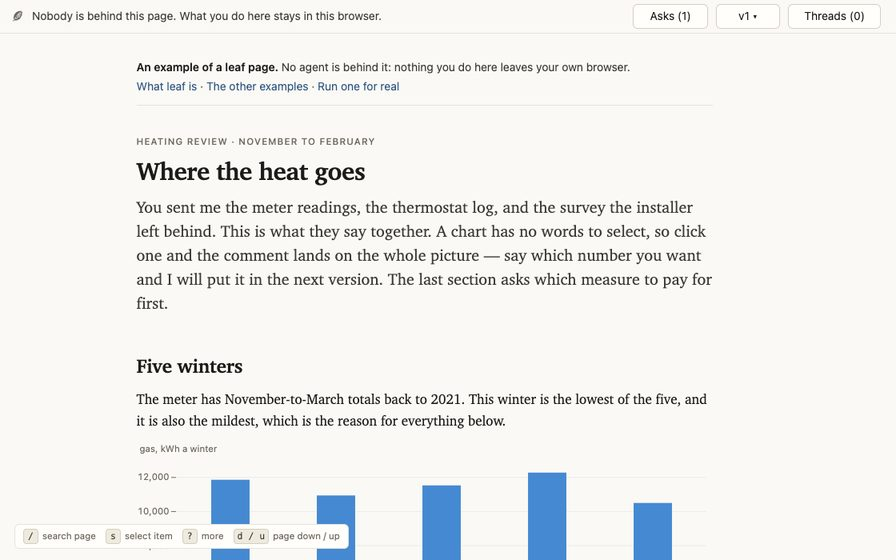
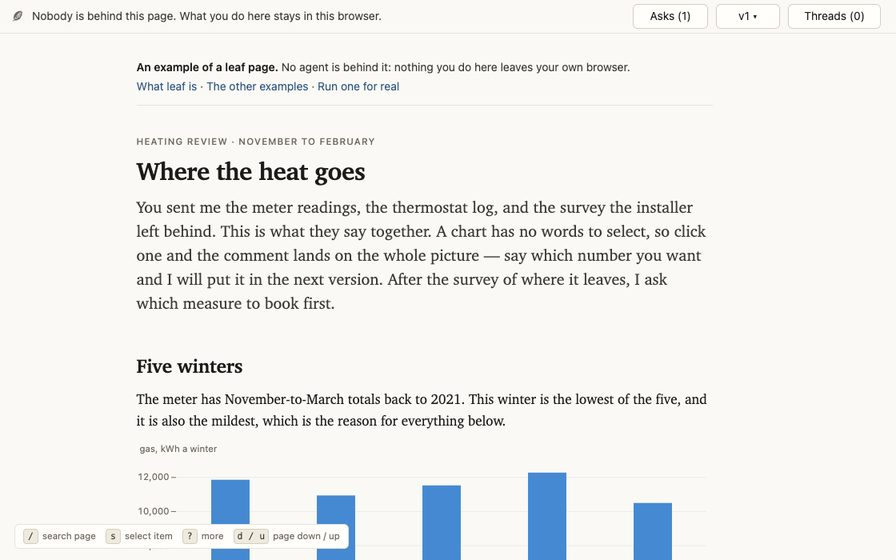
Interleave Leaf asks with the explanation they turn on (#202)
The skill said a decision has a control beside its evidence, and the
decisions reference opened by making the ask self-contained. Nothing
placed the ask relative to the explanation, so an author could finish
each section and stack its asks at the foot, after the collapsed
evidence. The guidance now says an ask sits where the reader has just
read what it turns on, with the page going on after it, and that only an
ask turning on the whole page comes last.

The heat-loss example was the one shipped page in the old shape (five
chart sections, then its single ask); its ask now follows the survey of
losses it turns on, and the corpus is regenerated. A second commit
aligns the `lf-tabs` registry description with the tabs rule
page-authoring.md adopted on 31 Aug, which it still contradicted, and a
third carries into both, and into the revisions reference that owns it,
the clause `version check` enforces: a passage whose id anchors an open
thread or holds a standing decision moves into the collapsed details
with its id. That commit also regenerates the gallery stills (heat-loss
showed the replaced lede; release-notes predated the last asset change)
and updates two nightly tests that still named pr-walkthrough by its old
title.

<details>
<summary>Old vs new wording on three synthetic subjects, two runs
each</summary>

Each arm's guidance was pasted into one prompt with the subject; every
run completed without error.

| Subject | Old wording | New wording |
|---|---|---|
[…]

Changed region(s): [[0.4375, 0.4857, 0.8125, 0.5161], [0.1562, 0.5161, 0.375, 0.5768]]

diff --git a/examples/corpus.html b/examples/corpus.html
@@ -228,8 +228,8 @@ catalog.</p>
         You sent me the meter readings, the thermostat log, and the survey the installer
         left behind. This is what they say together. A chart has no words to select, so
         click one and the comment lands on the whole picture — say which number you want
-        and I will put it in the next version. The last section asks which measure to
-        pay for first.
+        and I will put it in the next version. After the survey of where it leaves, I
+        ask which measure to book first.
       </p>
 
       <section id="heat-years-section">
@@ -316,39 +316,6 @@ chimney with no cap, 120
         </lf-chart>
       </section>
 
-      <section id="heat-weather">
-        <h2>Against the weather</h2>
-        <p id="heat-weather-note">
-          Every week sits at its own average outside temperature, so a colder winter
-          cannot be mistaken for a leakier house. The two runs are the same house six
-          weeks apart: the second sits about
-          <lf-num
-            id="heat-weather-gap"
-            source="heat-weather-gap"
-            at="2026-02-01T12:00:00Z"
-            via="uv run analyse-heat --weather-normalise"
-            >40 kWh a week</lf-num
-          >
-          below the first at the same temperature, which is the draught-proofing showing
-          up.
-        </p>
-        <lf-chart id="heat-response" kind="dots" y="gas, kWh a week">
-          <pre>
-outside average, before, after
-2.1, 604,
-3.0, 588,
-3.4, 561,
-4.2, 538,
-5.0, 512,
-6.1, 470,
-2.6, , 542
-3.8, , 498
-5.2, , 470
-6.4, , 449
-</pre>
-        </lf-chart>
-      </section>
-
       <lf-decision id="heat-first-decision">
         <h2>Which measure should be booked first?</h2>
         <p id="heat-first-note">
@@ -387,6 +354,39 @@ outside average, before, after
           </lf-option>
         </lf-options>
       </lf-decision>
+
+      <section id="heat-weather">
+        <h2>Against the weather</h2>
+        <p id="heat-weather-note">
+          Every week sits at its own average outside temperature, so a colder winter
+          cannot be mistaken for a leakier house. The two runs are the same house six
+          weeks apart: the second sits about
+          <lf-num
+            id="heat-weather-gap"
+            source="heat-weather-gap"
+            at="2026-02-01T12:00:00Z"
+            via="uv run analyse-heat --weather-normalise"
+            >40 kWh a week</lf-num
+          >
+          below the first at the same temperature, which is the draught-proofing showing
+          up.
+        </p>
+        <lf-chart id="heat-response" kind="dots" y="gas, kWh a week">
+          <pre>
+outside average, before, after
+2.1, 604,
+3.0, 588,
+3.4, 561,
+4.2, 538,
+5.0, 512,
+6.1, 470,
+2.6, , 542
+3.8, , 498
+5.2, , 470
+6.4, , 449
+</pre>
+        </lf-chart>
+      </section>
 </lf-tab>
 
 <lf-tab id="corpus-live-progress" label="Live">

diff --git a/examples/heat-loss.html b/examples/heat-loss.html
@@ -22,8 +22,8 @@
         You sent me the meter readings, the thermostat log, and the survey the installer
         left behind. This is what they say together. A chart has no words to select, so
         click one and the comment lands on the whole picture — say which number you want
-        and I will put it in the next version. The last section asks which measure to
-        pay for first.
+        and I will put it in the next version. After the survey of where it leaves, I
+        ask which measure to book first.
       </p>
 
       <section id="heat-years-section">
@@ -110,39 +110,6 @@ chimney with no cap, 120
         </lf-chart>
       </section>
 
-      <section id="heat-weather">
-        <h2>Against the weather</h2>
-        <p id="heat-weather-note">
-          Every week sits at its own average outside temperature, so a colder winter
-          cannot be mistaken for a leakier house. The two runs are the same house six
-          weeks apart: the second sits about
-          <lf-num
-            id="heat-weather-gap"
-            source="heat-weather-gap"
-            at="2026-02-01T12:00:00Z"
-            via="uv run analyse-heat --weather-normalise"
-            >40 kWh a week</lf-num
-          >
-          below the first at the same temperature, which is the draught-proofing showing
-          up.
-        </p>
-        <lf-chart id="heat-response" kind="dots" y="gas, kWh a week">
-          <pre>
-outside average, before, after
-2.1, 604,
-3.0, 588,
-3.4, 561,
-4.2, 538,
-5.0, 512,
-6.1, 470,
-2.6, , 542
-3.8, , 498
-5.2, , 470
-6.4, , 449
-</pre>
-        </lf-chart>
-      </section>
-
       <lf-decision id="heat-first-decision">
         <h2>Which measure should be booked first?</h2>
         <p id="heat-first-note">
@@ -181,6 +148,39 @@ outside average, before, after
           </lf-option>
         </lf-options>
       </lf-decision>
+
+      <section id="heat-weather">
+        <h2>Against the weather</h2>
+        <p id="heat-weather-note">
+          Every week sits at its own average outside temperature, so a colder winter
+          cannot be mistaken for a leakier house. The two runs are the same house six
+          weeks apart: the second sits about
+          <lf-num
+            id="heat-weather-gap"
+            source="heat-weather-gap"
+            at="2026-02-01T12:00:00Z"
+            via="uv run analyse-heat --weather-normalise"
+            >40 kWh a week</lf-num
+          >
+          below the first at the same temperature, which is the draught-proofing showing
+          up.
+        </p>
+        <lf-chart id="heat-response" kind="dots" y="gas, kWh a week">
+          <pre>
+outside average, before, after
+2.1, 604,
+3.0, 588,
+3.4, 561,
+4.2, 538,
+5.0, 512,
+6.1, 470,
+2.6, , 542
+3.8, , 498
+5.2, , 470
+6.4, , 449
+</pre>
+        </lf-chart>
+      </section>
     </main>
   </body>
 </html>

diff --git a/tests/test_render_export.py b/tests/test_render_export.py
@@ -146,7 +146,9 @@ def test_the_example_preview_command_exports_a_file_that_opens_on_its_own(
     errors = watched(page)
     page.on("requestfailed", lambda request: errors.append(f"unfetched {request.url}"))
     page.goto(out.as_uri(), wait_until="load")
-    expect(page.get_by_role("heading", name="Per-token rate limits")).to_be_visible()
+    expect(
+        page.get_by_role("heading", name="Unified diff in the switch picker")
+    ).to_be_visible()
     assert page.locator("script").count() == 0
     assert page.locator('link[rel="stylesheet"]').count() == 0
     assert page.locator("style").count() > 0

diff --git a/tests/test_site.py b/tests/test_site.py
@@ -283,7 +283,7 @@ def test_an_example_paints_while_every_stage_of_site_startup_is_held(
     try:
         with page.expect_request("**/leaf.js"):
             page.goto(example_url(hosted, "pr-walkthrough"), wait_until="commit")
-        expect(page.locator("h1")).to_have_text("Per-token rate limits")
+        expect(page.locator("h1")).to_have_text("Unified diff in the switch picker")
         expect(page.locator("h1")).to_be_visible()
 
         assert boot, "the positive control did not hold the site boot module"

diff --git a/skills/leaf/references/authoring-decisions.md b/skills/leaf/references/authoring-decisions.md
@@ -5,12 +5,18 @@ registry entries for the exact widget contracts.
 
 ## Asks and sign-off
 
-Make the ask self-contained: put each alternative's title, case, and
-decision-relevant evidence or preview inside the option itself. Use a short
-option that points elsewhere only to select among sections or work items that
-already exist independently of the decision; do not create separate sections
-to hold an ask's alternatives. Allow multiple picks only when several options
-may stand.
+Put each ask where the reader has just read what it turns on, and let the page
+go on explaining after it. That point is the paragraph, list item, table, or
+chart that makes the question answerable. An ask about one item of a list
+follows that item, and an ask that turns on a claim follows the claim rather
+than the backing collapsed under it. Only an ask that turns on the whole page
+comes last.
+
+Each option carries its own title, case, and decision-relevant evidence or
+preview. Use a short option that points elsewhere only to select among sections
+or work items that already exist independently of the decision; do not create
+separate sections to hold an ask's alternatives. Allow multiple picks only when
+several options may stand.
 
 On the page the group's last cell is an option the reader writes, saying
 `Another option`, so author the alternatives you actually mean and no catch-all

diff --git a/skills/leaf/references/authoring-revisions.md b/skills/leaf/references/authoring-revisions.md
@@ -50,9 +50,10 @@ Each active revision presents what is live now. Remove a concluded run or
 superseded section instead of adding the next one beside it. Keep older material
 only when the current work still needs its context; move only the needed
 passages to a `Past work` section at the foot, inside a collapsed `<details>`
-whose summary names what it contains. Preserve the ids and words of passages
-that survive. Mark a concluded `lf-options` group `settled` when it retires
-inside a section that remains live.
+whose summary names what it contains. A passage whose id anchors an open thread
+or holds a standing decision survives with its id and words whatever else goes;
+`version check` refuses a version that drops one. Mark a concluded `lf-options`
+group `settled` when it retires inside a section that remains live.
 
 Relocation is not revision: moving unchanged content needs neither a suggestion
 nor `restated`. Keep a decision live while it is being applied, and settle it

diff --git a/skills/leaf/SKILL.md b/skills/leaf/SKILL.md
@@ -93,8 +93,9 @@ guidance <page>` lists the available audiences, and `leaf page guidance <page>
 <audience>` prints one guide. Read the assigned audience before acting in that
 role. List the page's audiences and read `author` guidance when it is available.
 
-Every decision has a control beside its evidence. A page that needs approval declares
-sign-off; an informative page does not. Save freely as the subject changes and
+A decision sits where the page has just made it answerable, with its control beside
+the evidence it turns on and the rest of the page after it. A page that needs
+approval declares sign-off; an informative page does not. Save freely as the subject changes and
 stamp meaningful checkpoints. Use status detail for progress between revisions.
 Keep the waiter alive while work continues so comments can affect the next step.
 

diff --git a/skills/leaf/references/page-authoring.md b/skills/leaf/references/page-authoring.md
@@ -102,9 +102,10 @@ title and lede before it, and put the current workstream first: ordering makes i
 the default for a reader with no saved panel or reading position. Remove earlier
 runs when the current work no longer depends on them. If their context is still
 needed, keep only that context in a collapsed `<details>` inside the relevant
-tab. A saved panel or restored position takes precedence. Threads, asks,
-versions, and sign-off still cover the whole page, so none of that runtime chrome
-belongs inside a tab.
+tab, and keep with it any passage whose id anchors an open thread or holds a
+standing decision. A saved panel or restored position takes precedence. Threads,
+asks, versions, and sign-off still cover the whole page, so none of that runtime
+chrome belongs inside a tab.
 
 ## Reading cost
 
